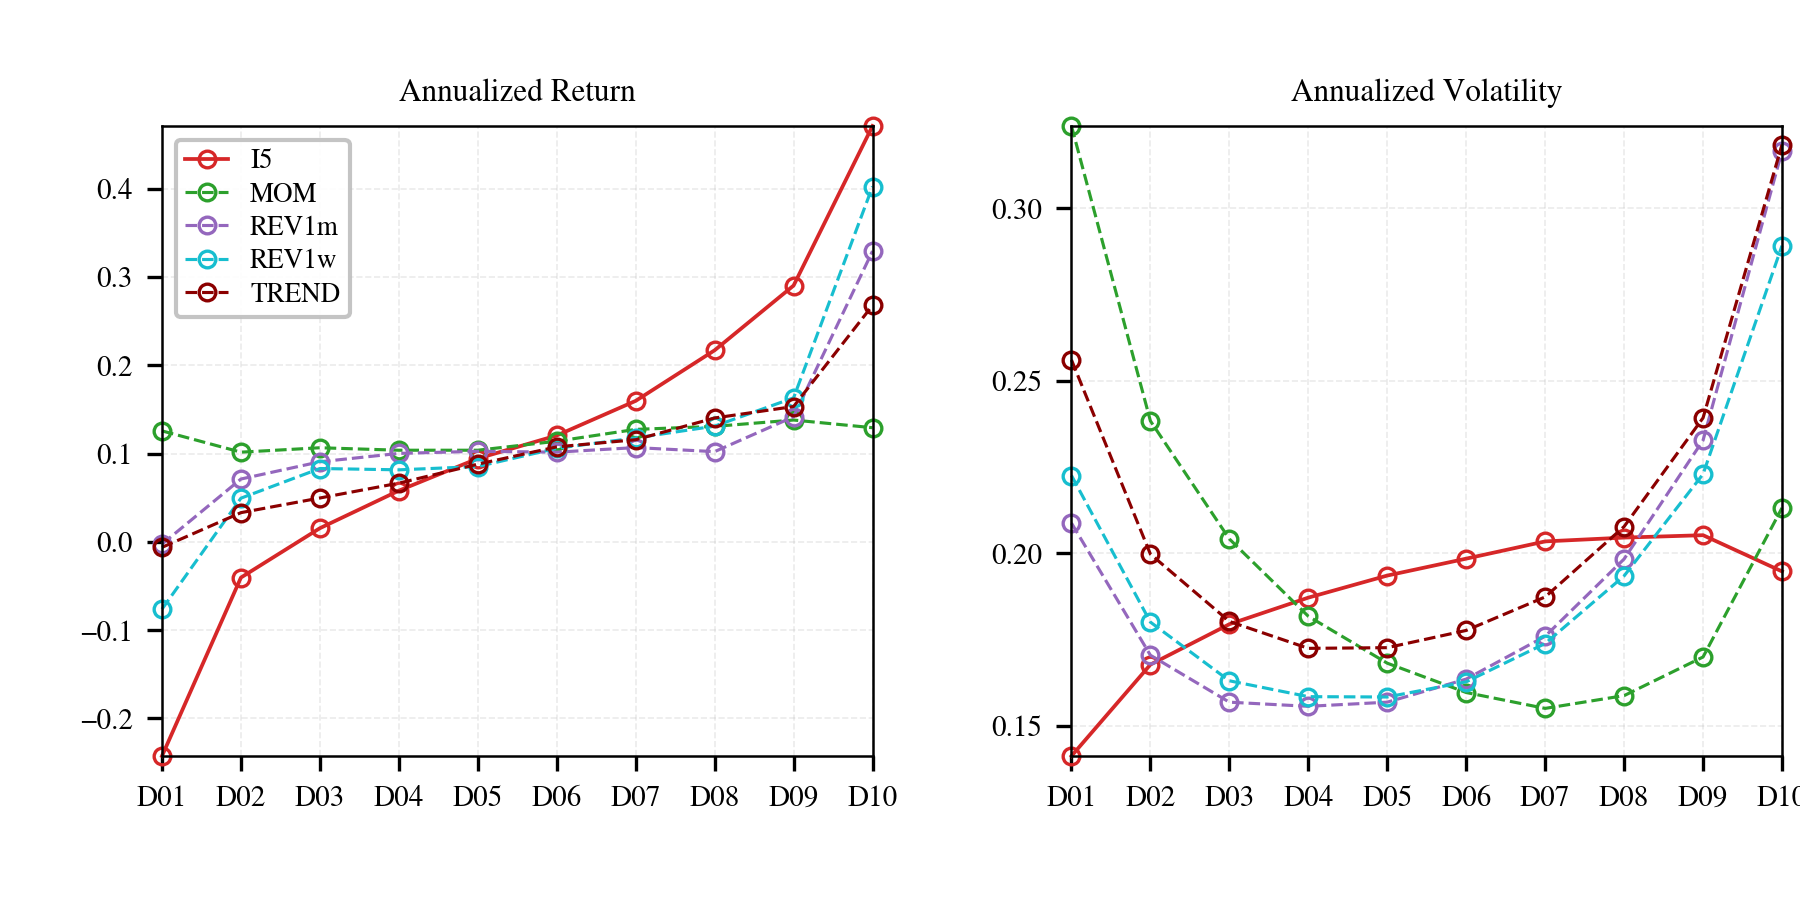
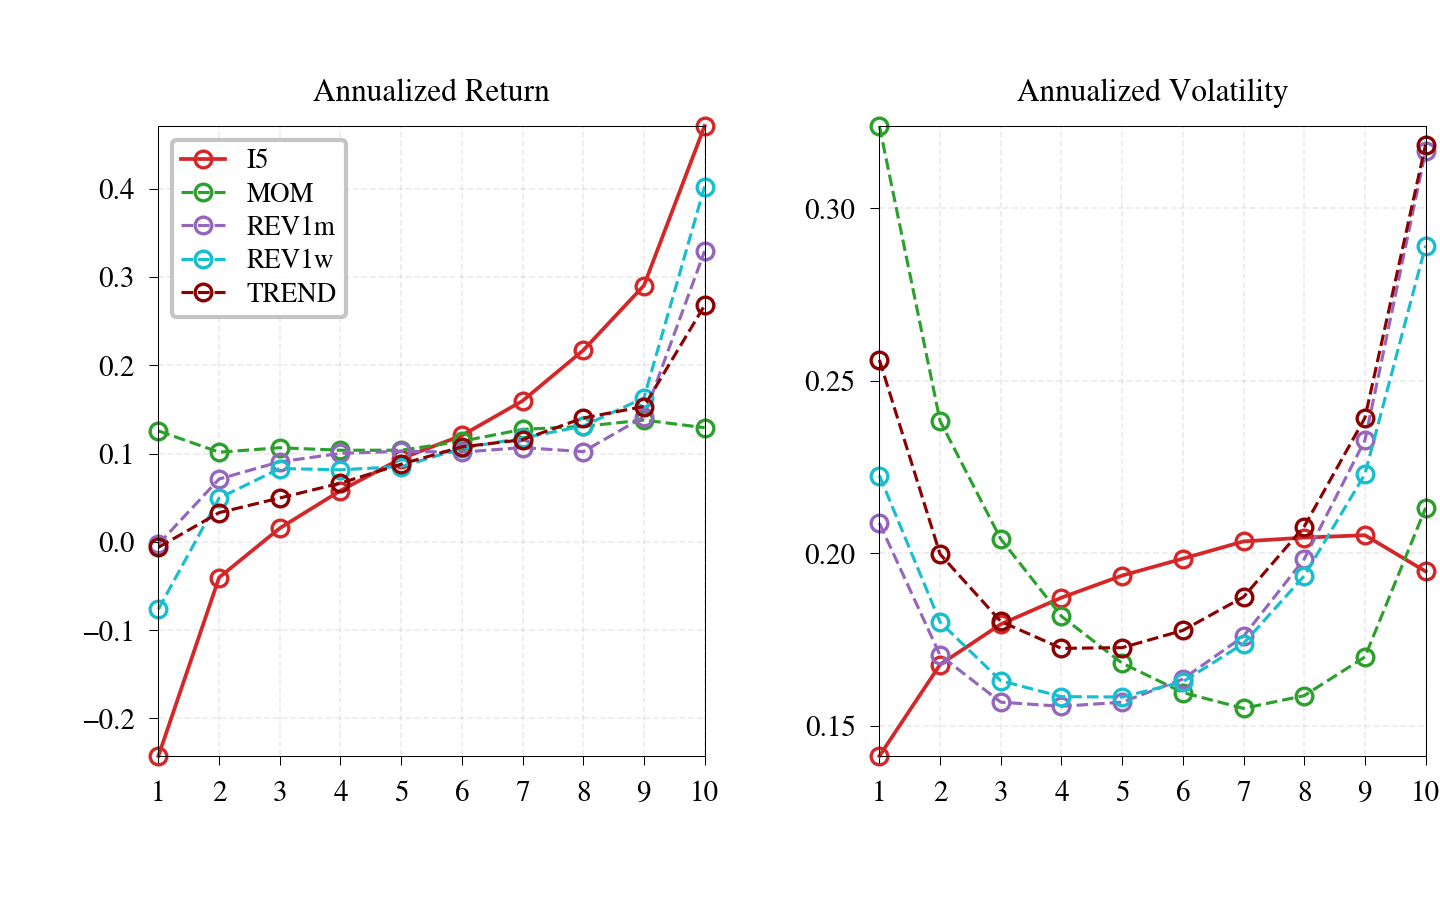
refactor: adjust figure dimensions and aesthetics in decile scatter curves script; update tick labels and spine properties for improved clarity and consistency

diff --git a/outputs/analysis_results/03_decile_scatter_curves/03_decile_figure.py b/outputs/analysis_results/03_decile_scatter_curves/03_decile_figure.py
@@ -28,8 +28,11 @@ from config import MARKET_CN, MARKET_US
 
 HERE = Path(__file__).resolve().parent
 STEM = "decile_curves"
-FIG_W, FIG_H = 6.0, 3.0
+# Narrower canvas than before: same figure height (y-axis unchanged), shorter x-axis.
+FIG_W, FIG_H = 4.8, 3.0
 FIG_DPI = 300
+# Match 02 cumulative-return plot boxes (pt).
+SPINE_LW = 0.25
 FONT_FAMILY = "Times New Roman"
 NIMBUS_ROMAN_PATH = "/usr/share/fonts/opentype/urw-base35/NimbusRoman-Regular.otf"
 
@@ -39,6 +42,7 @@ RET_STEP = 0.1
 VOL_STEP = 0.05
 DECILE_X = np.arange(1, 11, dtype=np.float64)
 DECILE_LABELS = tuple(f"D{i:02d}" for i in range(1, 11))
+DECILE_TICK_LABELS = tuple(str(i) for i in range(1, 11))
 
 def log(msg: str) -> None:
     print(msg, flush=True)
@@ -99,12 +103,12 @@ def _y_tick_values(y0: float, y1: float, step: float) -> np.ndarray:
 def _apply_ticks(ax: plt.Axes, y0: float, y1: float, step: float, *, tick_size: float) -> None:
     ax.set_yticks(_y_tick_values(y0, y1, step))
     ax.set_xticks(DECILE_X)
-    ax.set_xticklabels(DECILE_LABELS)
+    ax.set_xticklabels(DECILE_TICK_LABELS)
     ax.set_xlim(1.0, 10.0)
     ax.set_ylim(y0, y1)
     ax.margins(x=0, y=0)
     ax.autoscale(enable=False)
-    ax.tick_params(axis="both", labelsize=tick_size)
+    ax.tick_params(axis="both", labelsize=tick_size, width=SPINE_LW, length=2.2)
     fp = plot_font(tick_size)
     for label in ax.get_xticklabels() + ax.get_yticklabels():
         label.set_fontproperties(fp)
@@ -148,7 +152,7 @@ def plot_decile_curves(
     vol_y0, vol_y1 = _data_limits(vol_flat)
 
     fig, axes = plt.subplots(1, 2, figsize=(FIG_W, FIG_H), sharex=True)
-    fig.subplots_adjust(left=0.09, right=0.99, bottom=0.16, top=0.86, wspace=0.28)
+    fig.subplots_adjust(left=0.11, right=0.99, bottom=0.16, top=0.86, wspace=0.32)
     tick_size = 7.0
     titles = ("Annualized Return", "Annualized Volatility")
 
@@ -162,7 +166,8 @@ def plot_decile_curves(
         ax.grid(True, alpha=0.25, linestyle="--", linewidth=0.4)
         for side in ("left", "right", "top", "bottom"):
             ax.spines[side].set_visible(True)
-            ax.spines[side].set_linewidth(0.6)
+            ax.spines[side].set_linewidth(SPINE_LW)
+            ax.spines[side].set_clip_on(True)
 
     for col, legend, ls, color in strategies:
         ret, vol = series[col]
